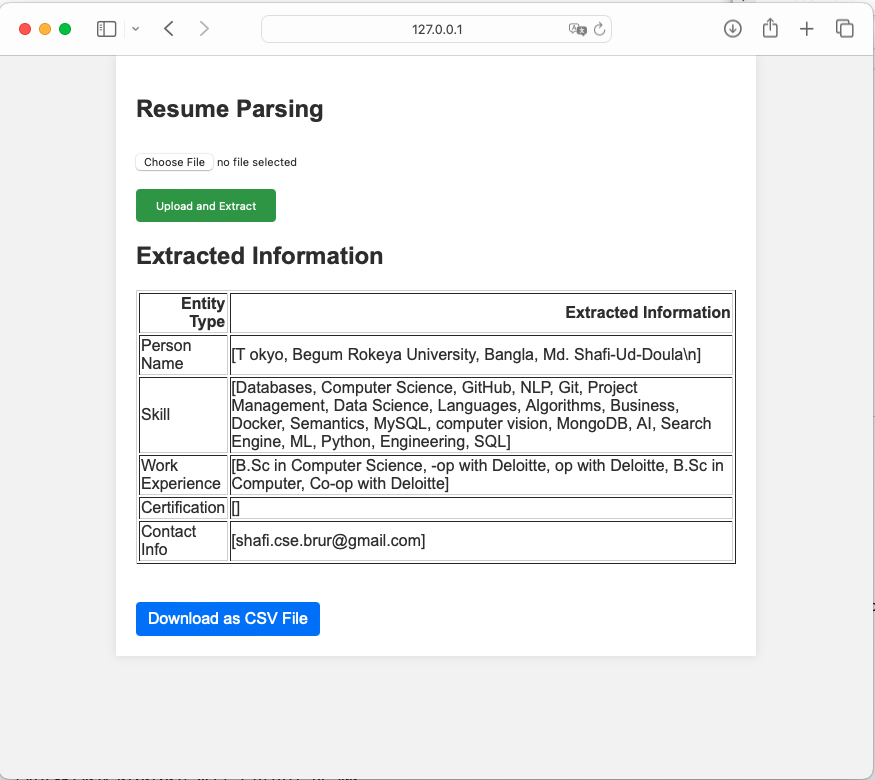
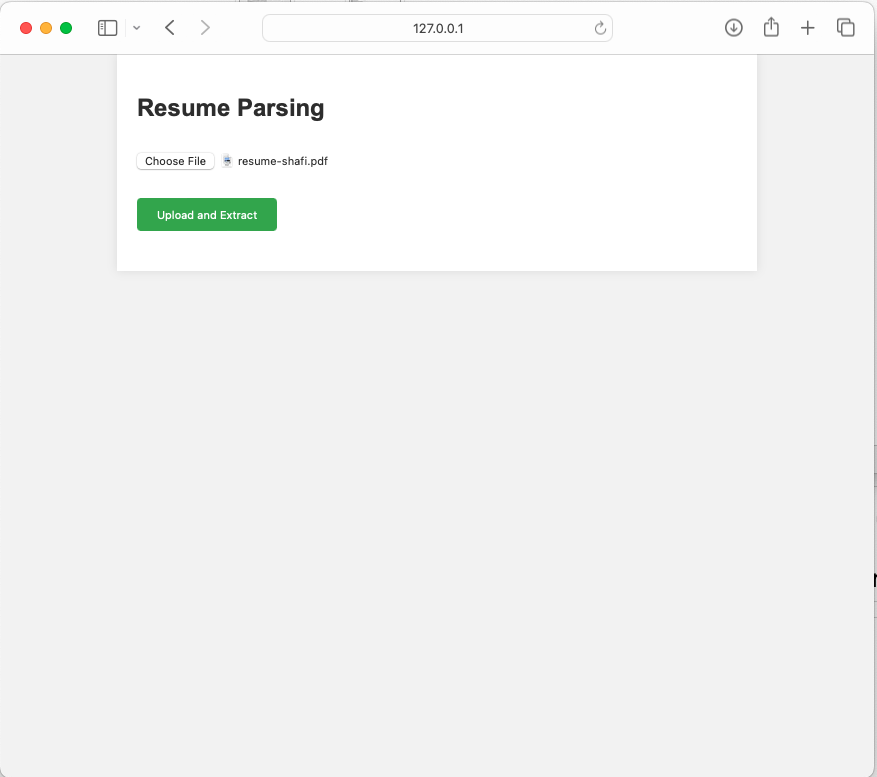
update figures

diff --git a/app/templates/index.html b/app/templates/index.html
@@ -1,4 +1,4 @@
- <!DOCTYPE html>
+<!DOCTYPE html>
 <html lang="en">
 <head>
     <meta charset="UTF-8">
@@ -50,11 +50,24 @@
         a:hover {
             background-color: #0056b3;
         }
+        #file-name {
+            margin-top: 10px;
+            display: block; /* Make it take its own line */
+        }
     </style>
     <script>
         document.addEventListener("DOMContentLoaded", function() {
+            var fileInput = document.querySelector('input[type="file"]');
+            var fileNameDisplay = document.getElementById('file-name');
+            
+            fileInput.onchange = function() {
+                if (fileInput.files.length > 0) {
+                    var fileName = fileInput.files[0].name;
+                    // fileNameDisplay.textContent = "Selected file: " + fileName;
+                }
+            };
+            
             document.querySelector('form').onsubmit = function() {
-                var fileInput = document.querySelector('input[type="file"]');
                 if (!fileInput.value) {
                     alert('Please select a file to upload.');
                     return false; // Prevent the form from submitting
@@ -67,10 +80,11 @@
 </head>
 <body>
     <div class="container">
-        <h2> Resume Parsing </h2>
+        <h2>Resume Parsing</h2>
         <form method="post" enctype="multipart/form-data">
             <input type="file" name="pdf_file" required>
             <br><br>
+            <span id="file-name"></span>
             <input type="submit" value="Upload and Extract">
         </form>
         {% if show_download %}

diff --git a/app/app.py b/app/app.py
@@ -1,4 +1,5 @@
 from flask import Flask, request, render_template, send_file, after_this_request, make_response,session
+
 import spacy
 from spacy.matcher import Matcher
 import pandas as pd
@@ -83,20 +84,25 @@ def read_pdf_content(pdf_file):
     for page in reader.pages:
         content += page.extract_text() + " "
     return content
+
+from werkzeug.utils import secure_filename
+
 @app.route('/', methods=['GET', 'POST'])
 def index():
     if request.method == 'POST':
         pdf_file = request.files.get('pdf_file')
         if pdf_file and pdf_file.filename.endswith('.pdf'):
+            filename = secure_filename(pdf_file.filename)
+            session['filename'] = filename.rsplit('.', 1)[0]  # Save the base name of the file
             content = read_pdf_content(pdf_file.stream)
             extracted_info = extract_all_information(content)
             session['extracted_info'] = extracted_info  # Store in session for download
-            # Convert extracted info to HTML table
             table_html = generate_table_html(extracted_info)
             return render_template('index.html', table_html=table_html, show_download=True)
     else:
         return render_template('index.html', show_download=False)
-
+    
+#------#
 def generate_table_html(extracted_info):
     df = pd.DataFrame(list(extracted_info.items()), columns=['Entity Type', 'Extracted Information'])
     return df.to_html(index=False)
@@ -104,27 +110,22 @@ def generate_table_html(extracted_info):
 
 @app.route('/download')
 def download():
-    if 'extracted_info' in session:
+    if 'extracted_info' in session and 'filename' in session:
         extracted_info = session['extracted_info']
-        # Prepare data for DataFrame
+        filename = session['filename']  # Retrieve the original file base name
         data = []
         for key, values in extracted_info.items():
             for value in values:
                 data.append({"Entity Type": key, "Extracted Information": value})
         df = pd.DataFrame(data)
-        
-        # Convert DataFrame to CSV
         csv_data = df.to_csv(index=False)
-        
-        # Create a response with the CSV data
         response = make_response(csv_data)
         response.headers['Content-Type'] = 'text/csv'
-        response.headers['Content-Disposition'] = 'attachment; filename=extracted_info.csv'
+        response.headers['Content-Disposition'] = f'attachment; filename={filename}.csv'
         return response
-
     return "No information available for download", 404
 
-
+#--#
 
 def generate_dataframe_for_csv(extracted_info):
     # Flatten the extracted information for CSV format
@@ -136,12 +137,6 @@ def generate_dataframe_for_csv(extracted_info):
     # Convert list of dictionaries to a DataFrame
     df = pd.DataFrame(rows)
     return df
-
-def send_csv_file(csv_content, filename):
-    response = make_response(csv_content)
-    response.headers['Content-Type'] = 'text/csv'
-    response.headers['Content-Disposition'] = f'attachment; filename={filename}'
-    return response
 
 
 if __name__ == '__main__':

diff --git a/README.md b/README.md
@@ -66,7 +66,7 @@ Start the Flask application with:
 `python app.py`
 
 
-Access the web interface at `http://localhost:5000` to upload a PDF resume and see the extracted information.
+Access the web interface at `http://127.0.0.1:5000` to upload a PDF resume and see the extracted information.
 
  Web Application's View
  <img src="figures/app-1.png"> 
@@ -76,6 +76,8 @@ Access the web interface at `http://localhost:5000` to upload a PDF resume and s
  <img src="figures/app-3.png"> 
 
  <img src="figures/app-4.png"> 
+
+  <img src="figures/app-4.1.png"> 
 
  Downloaded extracted file as CSV format (easy to load in excel or any downstream task program)
   <img src="figures/app-5.png"> 
